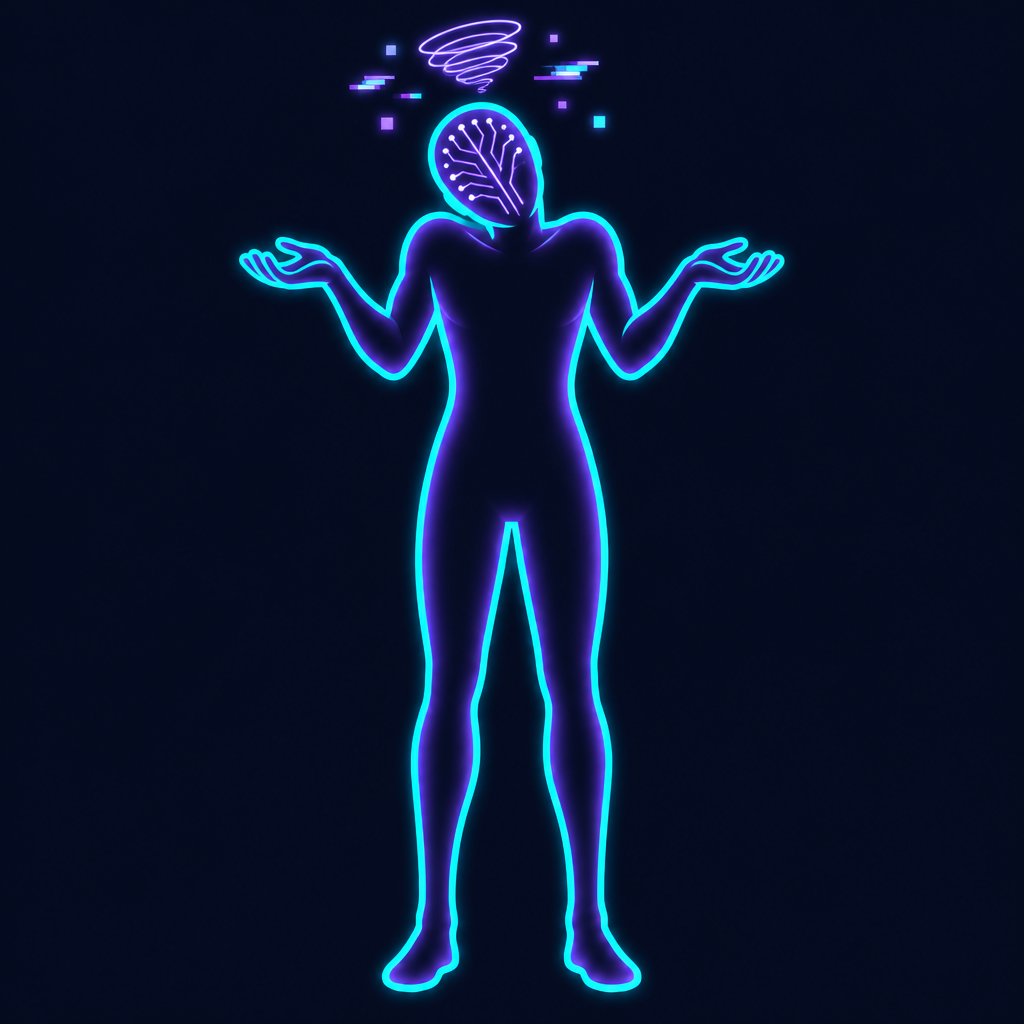
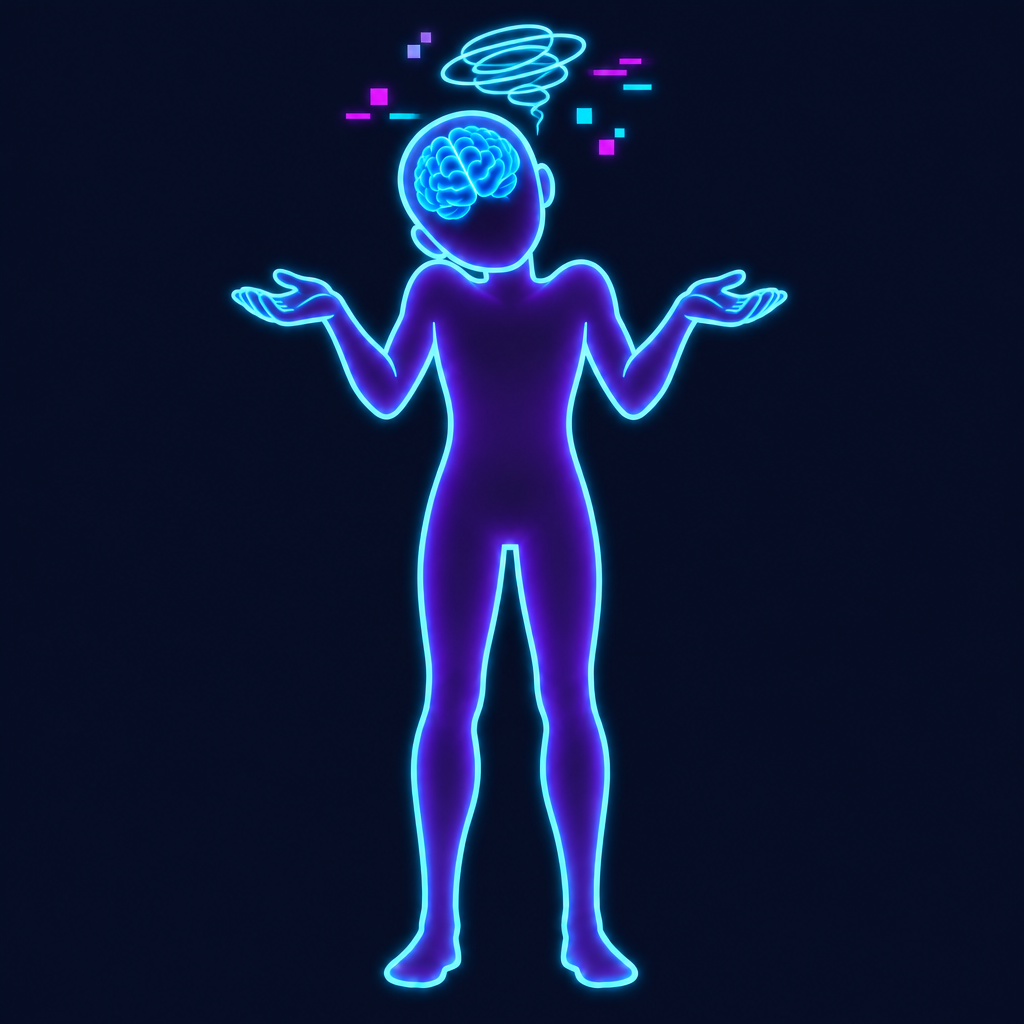
Replace mascot with blue-brain head design
Claude-Session: https://claude.ai/code/session_01Q2nQfKa2QebTTCdot7ikyQ

Changed region(s): [[0.2188, 0.0, 0.7812, 0.9688]]

diff --git a/content-plan.md b/content-plan.md
@@ -135,12 +135,13 @@ Facts must be accurate; flag anything uncertain.
 **Thumbnails:** dark background, the mascot or a single face from stock, 2–4 words in neon, one warning or code element.
 
 ## Mascot "The User": generated poses (Higgsfield)
-All images are saved in the `mascot/` folder (1024×1024 PNG). `mascot/contact_sheet.png` shows them side by side.
+Design: faceless glowing cyan outline figure, purple body glow, transparent head with a glowing **blue brain** inside. All images are saved in the `mascot/` folder (1024×1024 PNG). `mascot/contact_sheet.png` shows them side by side.
+
+To make new poses, use `00_neutral.png` (Higgsfield job `4c956a1c-d299-4467-8d82-20b1a2c5f22e`) as the reference image so the character stays consistent.
 
 | File | Pose | Use for |
 |---|---|---|
-| `00_neutral_a.png` | Neutral (reference for the others) | Intros |
-| `00_neutral_b.png` | Neutral, alternate | Intros |
+| `00_neutral.png` | Neutral (reference for the others) | Intros |
 | `01_thinking.png` | Thinking, with question mark | Questions, hooks |
 | `02_stressed.png` | Stressed, red warnings | BUG REPORT |
 | `03_walking.png` | Walking, motion trail | Transitions |
